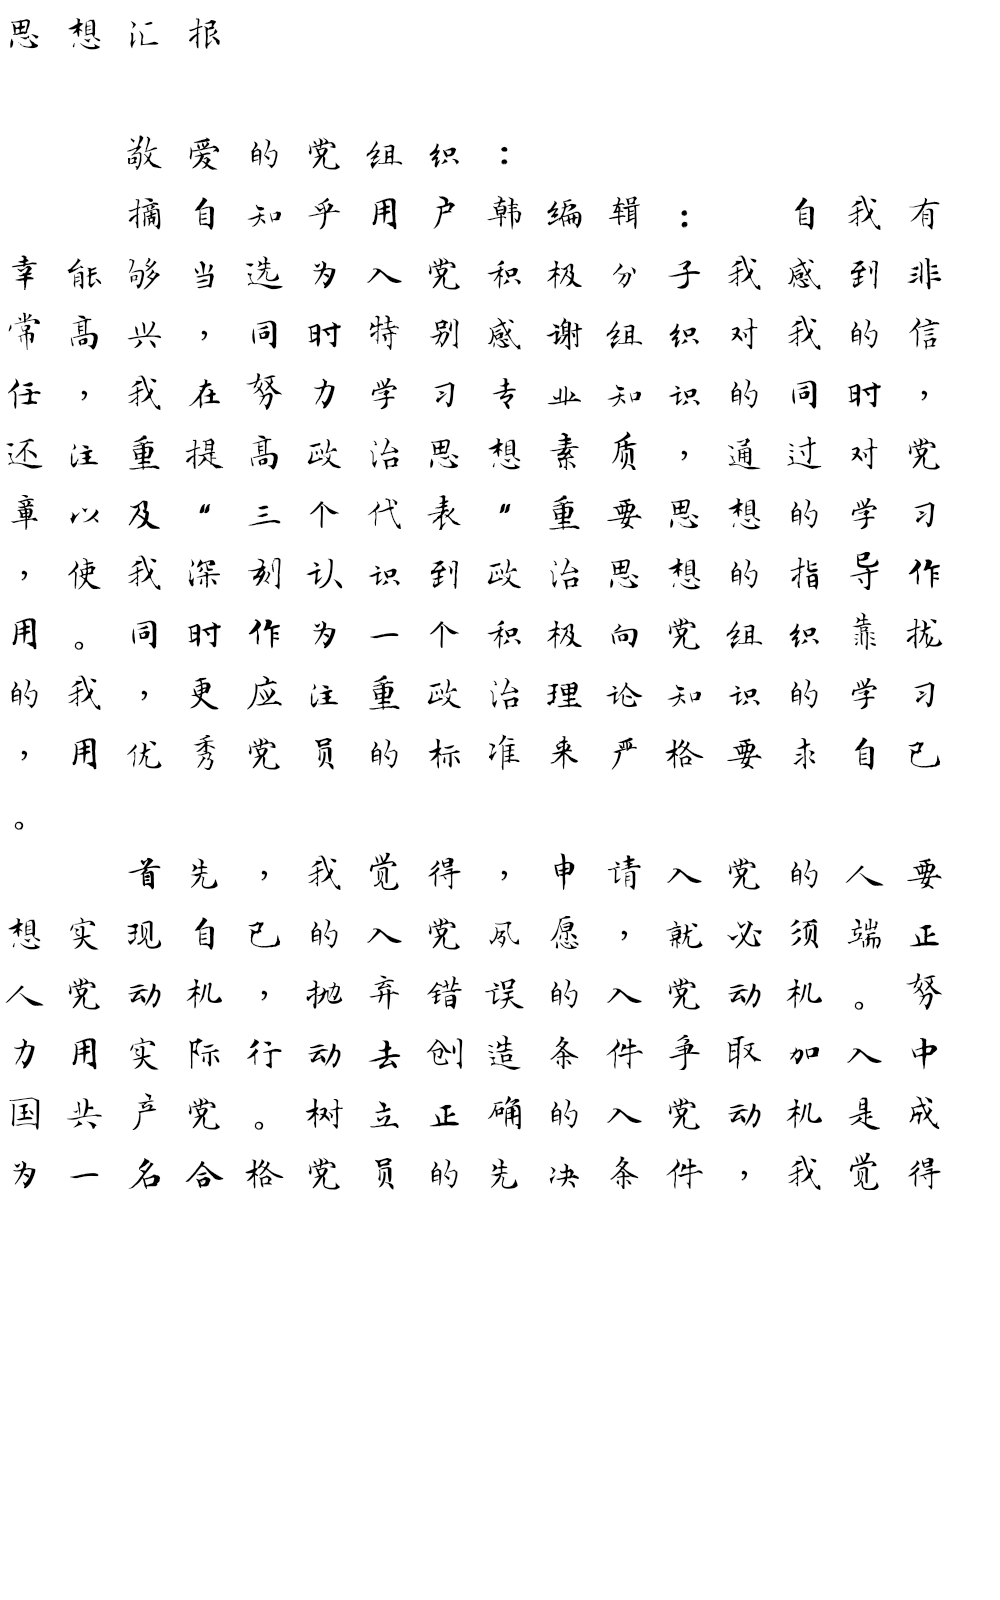
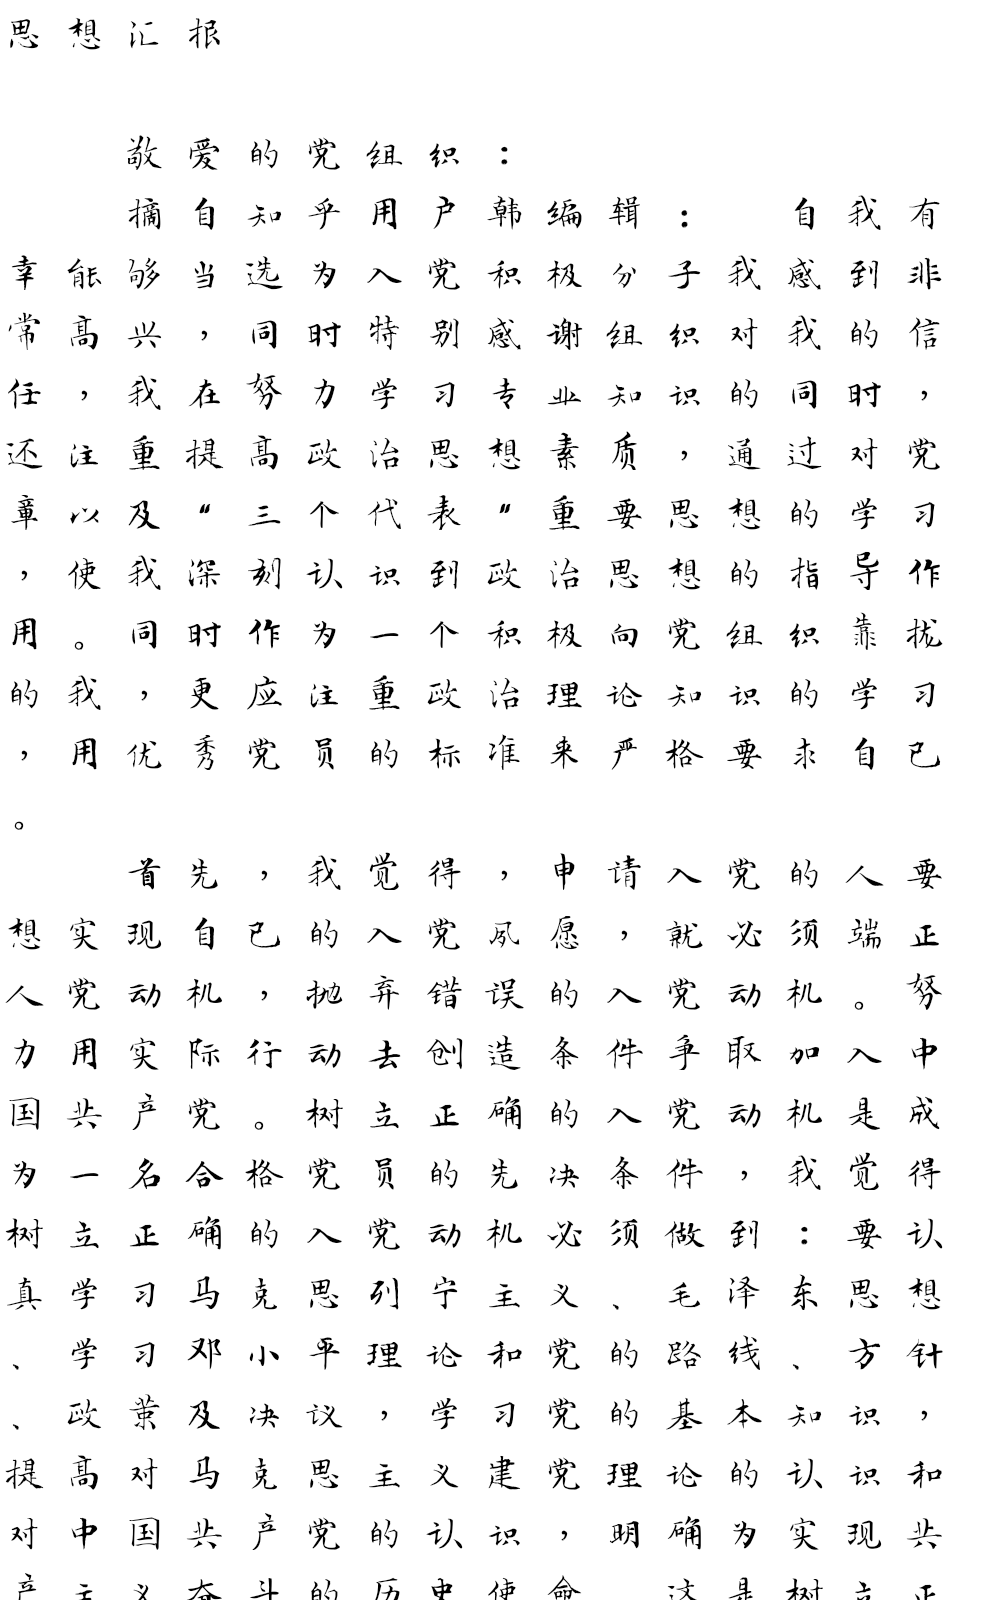
rewrite hndwrt

diff --git a/hndwrtPrint/comb.py b/hndwrtPrint/comb.py
@@ -36,21 +36,33 @@ class artic:
             lines += [list(para)[i:i+lineMaxCharNum] for i in range(0, len(para), lineMaxCharNum)]
         return lines
 
+    def splitPages(self, lineWid: int, lineNum: int, paraIndent=True) -> list:
+        lines = [list(self.main["title"]), [""]]
+        for x in self.main["paras"]:
+            if paraIndent:
+                para = "  " + x
+            else:
+                para = x
+
+            lines += [list(para)[i:i+lineWid] for i in range(0, len(para), lineWid)]
+        lines = [lines[i:i+lineNum] for i in range(0, len(lines), lineNum)]
+        return lines
+
 
 def charNumInEachLine(page_w, char_w, dw):
     return int((page_w + dw) / (char_w + dw))
 
 
-def genPage(lines, width, height, dw, dh, pool):
-    # generate the background
-    size = (width, height)
+def page2img(page, **kwargs):
+    size = (kwargs["w"], kwargs["h"])
+    dw, dh = kwargs["dw"], kwargs["dh"]
     img = PIL.Image.new("RGBA", size, "white")
 
     # positioning and paste char images
     x = 0
     y = 0
     w, h = gener.getSize()
-    for ln in lines:
+    for ln in page:
         for char in ln:
             a = gener(char)
             # use a as the mask to make it transparent!
@@ -60,13 +72,10 @@ def genPage(lines, width, height, dw, dh, pool):
         x = 0
         y += dh + h
 
-    img.save("page.png")
+    return img
 
 
-
-
-
-def artic2img(width, height, dw, dh):
+def artic2img(artic, width, height, dw, dh):
     art = artic()
     w, h = gener.getSize()
     lineMaxCharNum = charNumInEachLine(width, w, dw)
@@ -77,5 +86,24 @@ def artic2img(width, height, dw, dh):
 
 
 if __name__ == "__main__":
-    lines = artic2img(1000, 1600, 10, 10)
-    genPage(lines[:20], 1000, 1600, 10, 10, {})
+    # lines = artic2img(1000, 1600, 10, 10)
+    # genPage_toImg(lines, 1000, 1600, 10, 10, {})
+
+    import os
+
+    test_prefix = "./test"
+    try:
+        os.mkdir(test_prefix)
+    except FileExistsError:
+        print("Test folder exists!")
+        exit(-1)
+
+    art = artic()
+    pages = []
+    for pg in art.splitPages(16, 20):
+        pages.append(page2img(pg, w=1000, h=1600, dw=10, dh=10))
+
+    page_id = 1
+    for im in pages:
+        im.save(f"{test_prefix}/page_{page_id}.png")
+        page_id += 1
